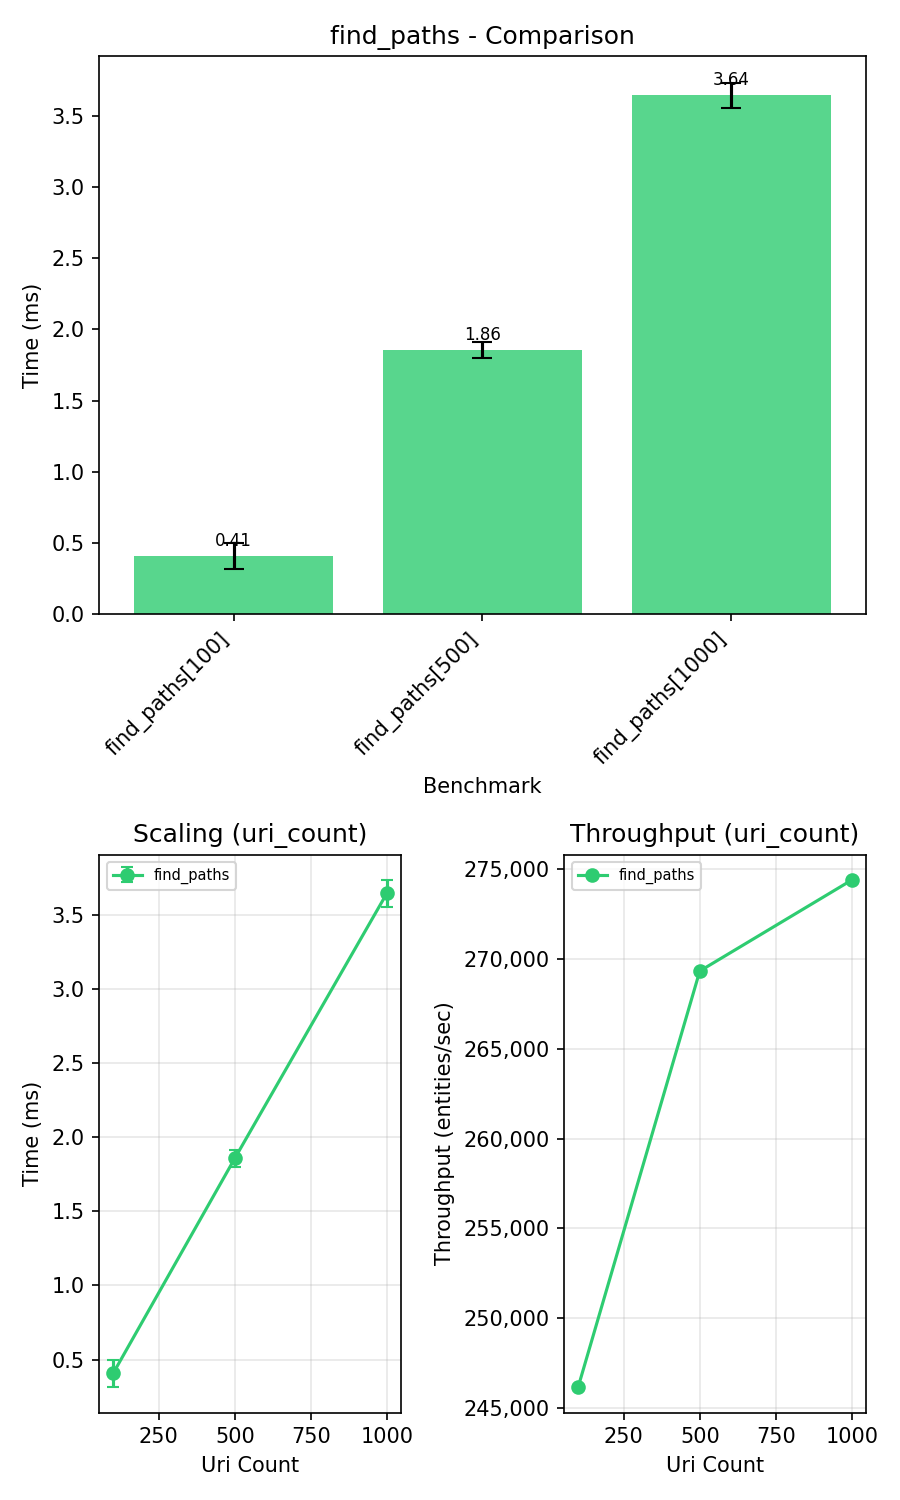
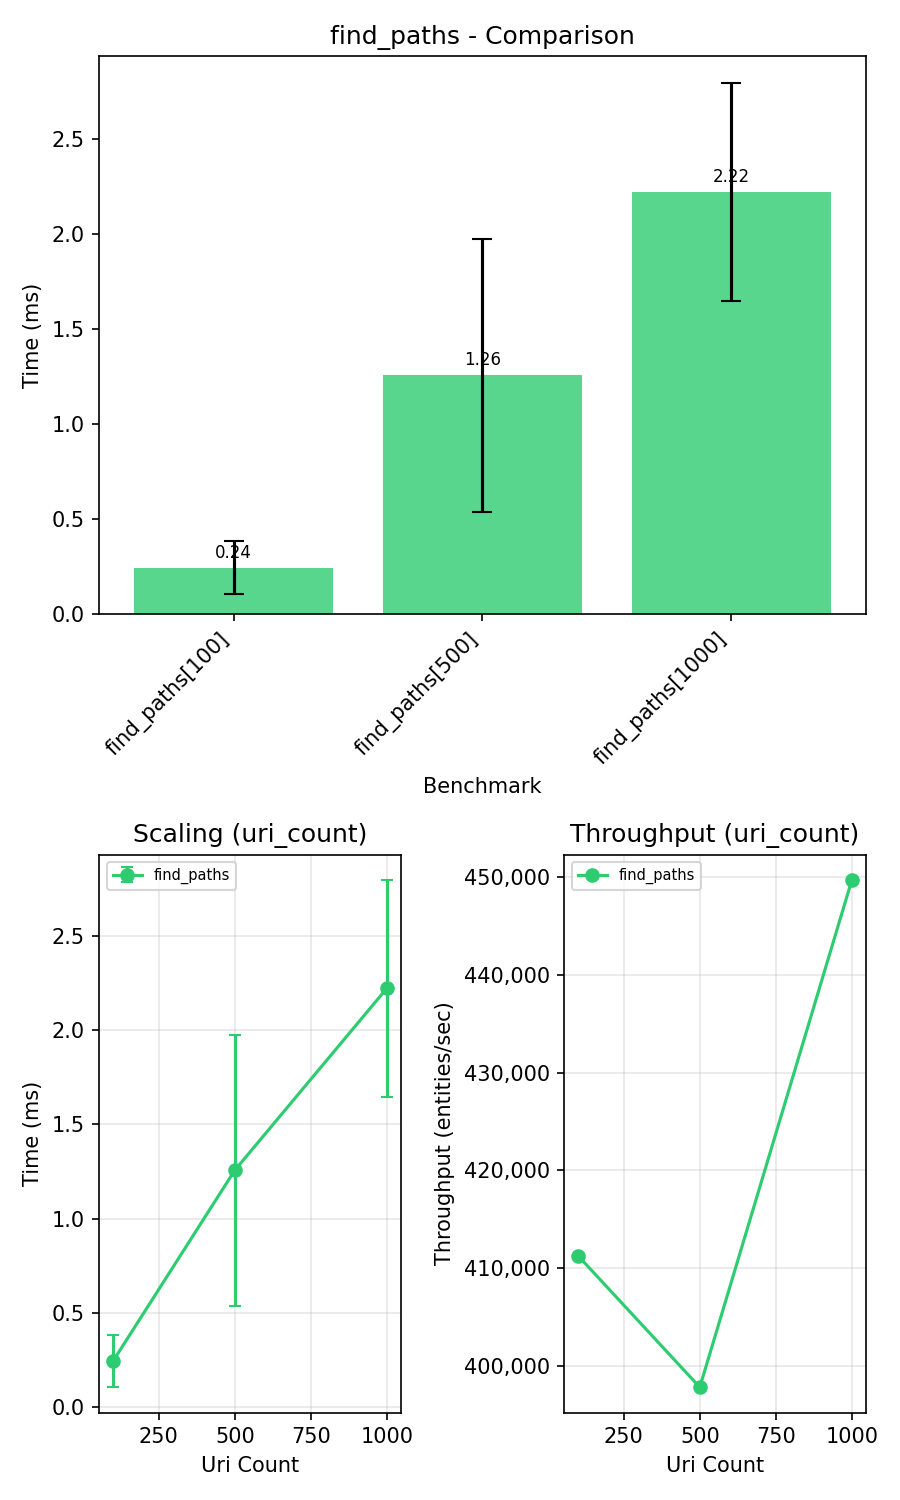
perf(support): cache parse_uri results and refactor URI helper functions
Add LRU cache to parse_uri() and refactor get_short_name(), get_count(),
get_prefix(), get_base_iri(), get_resource_number() to use cached parse_uri()
instead of _get_match() which compiled regex on every call.

Benchmark improvement: ~1.6x speedup on find_paths operations.

diff --git a/oc_ocdm/support/support.py b/oc_ocdm/support/support.py
@@ -19,6 +19,7 @@ import os
 import re
 from dataclasses import dataclass
 from datetime import datetime
+from functools import lru_cache
 from typing import TYPE_CHECKING
 from rdflib import URIRef, Graph
 
@@ -189,6 +190,7 @@ _compiled_entity_regex = re.compile(entity_regex)
 _compiled_prov_regex = re.compile(prov_regex)
 
 
+@lru_cache(maxsize=4096)
 def parse_uri(res: URIRef) -> ParsedURI:
     string_iri = str(res)
     if "/prov/" in string_iri:
@@ -220,52 +222,26 @@ def parse_uri(res: URIRef) -> ParsedURI:
     return ParsedURI("", "", "", "", False, "", "", "")
 
 
-def _get_match(regex: str, group: int, string: str) -> str:
-    match: Match = re.match(regex, string)
-    if match is not None:
-        return match.group(group)
-    else:
-        return ""
-
-
 def get_base_iri(res: URIRef) -> str:
-    string_iri: str = str(res)
-    if "/prov/" in string_iri:
-        return _get_match(prov_regex, 1, string_iri)
-    else:
-        return _get_match(entity_regex, 1, string_iri)
+    return parse_uri(res).base_iri
 
 
 def get_short_name(res: URIRef) -> str:
-    string_iri: str = str(res)
-    if "/prov/" in string_iri:
-        return _get_match(prov_regex, 5, string_iri)
-    else:
-        return _get_match(entity_regex, 2, string_iri)
+    return parse_uri(res).short_name
 
 
 def get_prefix(res: URIRef) -> str:
-    string_iri: str = str(res)
-    if "/prov/" in string_iri:
-        return ""  # provenance entities cannot have a supplier prefix
-    else:
-        return _get_match(entity_regex, 3, string_iri)
+    return parse_uri(res).prefix
 
 
 def get_count(res: URIRef) -> str:
-    string_iri: str = str(res)
-    if "/prov/" in string_iri:
-        return _get_match(prov_regex, 6, string_iri)
-    else:
-        return _get_match(entity_regex, 4, string_iri)
+    return parse_uri(res).count
 
 
 def get_resource_number(res: URIRef) -> int:
-    string_iri: str = str(res)
-    if "/prov/" in string_iri:
-        return int(_get_match(prov_regex, 4, string_iri))
-    else:
-        return int(_get_match(entity_regex, 4, string_iri))
+    parsed = parse_uri(res)
+    count = parsed.prov_subject_count if parsed.is_prov else parsed.count
+    return int(count) if count else 0
 
 
 def find_local_line_id(res: URIRef, n_file_item: int = 1) -> int:
